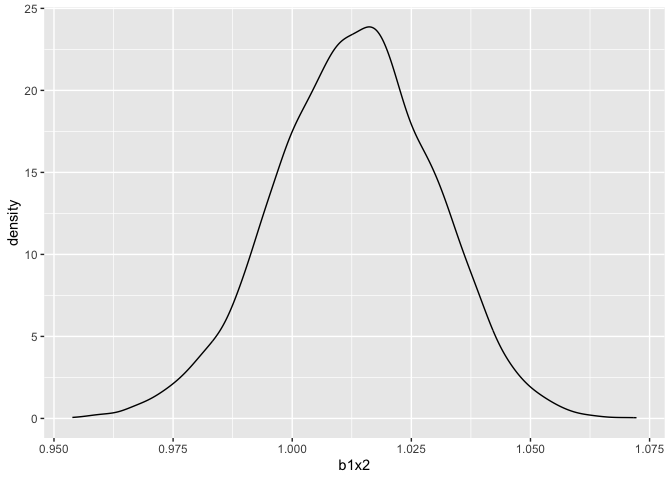
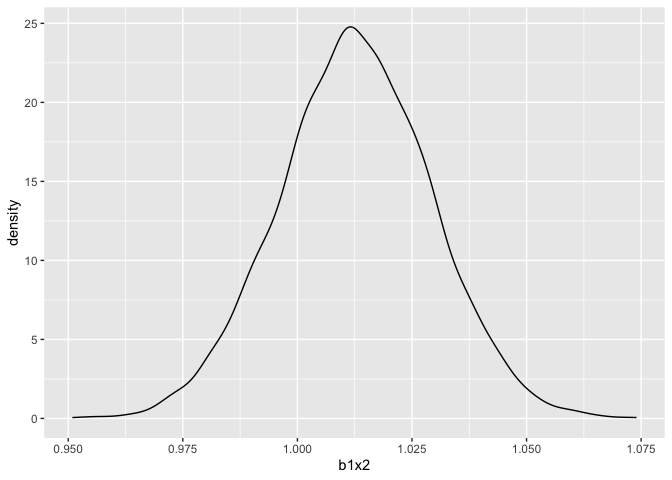
Finish problem 3

diff --git a/p8105_hw6_eb3516.md b/p8105_hw6_eb3516.md
@@ -74,16 +74,16 @@ weather_bootstrap |>
     ## # A tibble: 5,000 × 3
     ##    id    rsq_lower_ci rsq_upper_ci
     ##    <chr>        <dbl>        <dbl>
-    ##  1 0001         0.919        0.919
-    ##  2 0002         0.916        0.916
-    ##  3 0003         0.919        0.919
-    ##  4 0004         0.940        0.940
-    ##  5 0005         0.925        0.925
-    ##  6 0006         0.895        0.895
-    ##  7 0007         0.904        0.904
-    ##  8 0008         0.917        0.917
-    ##  9 0009         0.902        0.902
-    ## 10 0010         0.937        0.937
+    ##  1 0001         0.910        0.910
+    ##  2 0002         0.908        0.908
+    ##  3 0003         0.927        0.927
+    ##  4 0004         0.911        0.911
+    ##  5 0005         0.903        0.903
+    ##  6 0006         0.925        0.925
+    ##  7 0007         0.931        0.931
+    ##  8 0008         0.919        0.919
+    ##  9 0009         0.922        0.922
+    ## 10 0010         0.932        0.932
     ## # ℹ 4,990 more rows
 
 ``` r
@@ -98,15 +98,15 @@ weather_bootstrap |>
     ##    id    beta_lower_ci beta_upper_ci
     ##    <chr>         <dbl>         <dbl>
     ##  1 0001          1.03          1.03 
-    ##  2 0002          1.00          1.00 
-    ##  3 0003          1.01          1.01 
-    ##  4 0004          1.02          1.02 
-    ##  5 0005          1.02          1.02 
-    ##  6 0006          0.991         0.991
-    ##  7 0007          1.01          1.01 
-    ##  8 0008          1.02          1.02 
-    ##  9 0009          1.01          1.01 
-    ## 10 0010          1.04          1.04 
+    ##  2 0002          1.01          1.01 
+    ##  3 0003          1.03          1.03 
+    ##  4 0004          0.986         0.986
+    ##  5 0005          1.01          1.01 
+    ##  6 0006          1.04          1.04 
+    ##  7 0007          1.02          1.02 
+    ##  8 0008          1.00          1.00 
+    ##  9 0009          1.02          1.02 
+    ## 10 0010          1.02          1.02 
     ## # ℹ 4,990 more rows
 
 Lastly, we’ll plot distributions.
@@ -134,7 +134,8 @@ First, we import and tidy the birthweight data.
     mutate(babysex=as.factor(babysex),
            frace=as.factor(frace),
            malform=as.factor(malform),
-           mrace=as.factor(mrace))
+           mrace=as.factor(mrace)) |>
+          janitor::clean_names()
 ```
 
     ## Rows: 4342 Columns: 20
@@ -144,3 +145,52 @@ First, we import and tidy the birthweight data.
     ## 
     ## ℹ Use `spec()` to retrieve the full column specification for this data.
     ## ℹ Specify the column types or set `show_col_types = FALSE` to quiet this message.
+
+My proposed regression model for birthweight will use `babysex`,
+`mrace`, `delwt`, and `momage`.
+
+Show plot of model against fitted values:
+
+``` r
+model=lm(bwt~babysex + mrace + delwt + momage, data=birthweight_df)
+
+birthweight_df |>
+  modelr::add_residuals(model) |>
+  modelr::add_predictions(model) |>
+  ggplot(aes(x=pred, y=resid))+geom_point()
+```
+
+![](p8105_hw6_eb3516_files/figure-gfm/unnamed-chunk-7-1.png)<!-- -->
+
+Now, I’ll compare my model to the 2 other models using cross-validation:
+
+``` r
+cross_val = crossv_mc(birthweight_df, 10)
+
+cross_val=cross_val |>
+  mutate(train=map(train, as_tibble),
+         test=map(test, as_tibble))
+
+cross_val=cross_val |>
+  mutate(
+    model=map(train, \(birthweight_df) lm(bwt~babysex + mrace + delwt + momage, data=birthweight_df)),
+    given_model=map(train, \(birthweight_df) lm(bwt~blength+gaweeks, data=birthweight_df)),
+    interaction_model=map(train, \(birthweight_df) lm(bwt~bhead*blength*babysex, data=birthweight_df))
+  ) |>
+  mutate(
+    rmse_model=map2_dbl(model, test, \(mod, birthweight_df) rmse(model=mod, data=birthweight_df)),
+    rmse_given=map2_dbl(given_model, test, \(mod, birthweight_df) rmse(model=mod, data=birthweight_df)),
+    rmse_interaction=map2_dbl(interaction_model, test, \(mod, birthweight_df) rmse(model=mod, data=birthweight_df))
+  )
+
+cross_val |>
+  select(starts_with("rmse")) |>
+  pivot_longer(
+    everything(), names_to="model", values_to="rmse", names_prefix="rmse_"
+  ) |>
+  ggplot(aes(x=model, y=rmse)) + geom_violin()
+```
+
+![](p8105_hw6_eb3516_files/figure-gfm/unnamed-chunk-8-1.png)<!-- -->
+Based on RMSE, the model using head circumference, length, sex, and the
+interactions is
